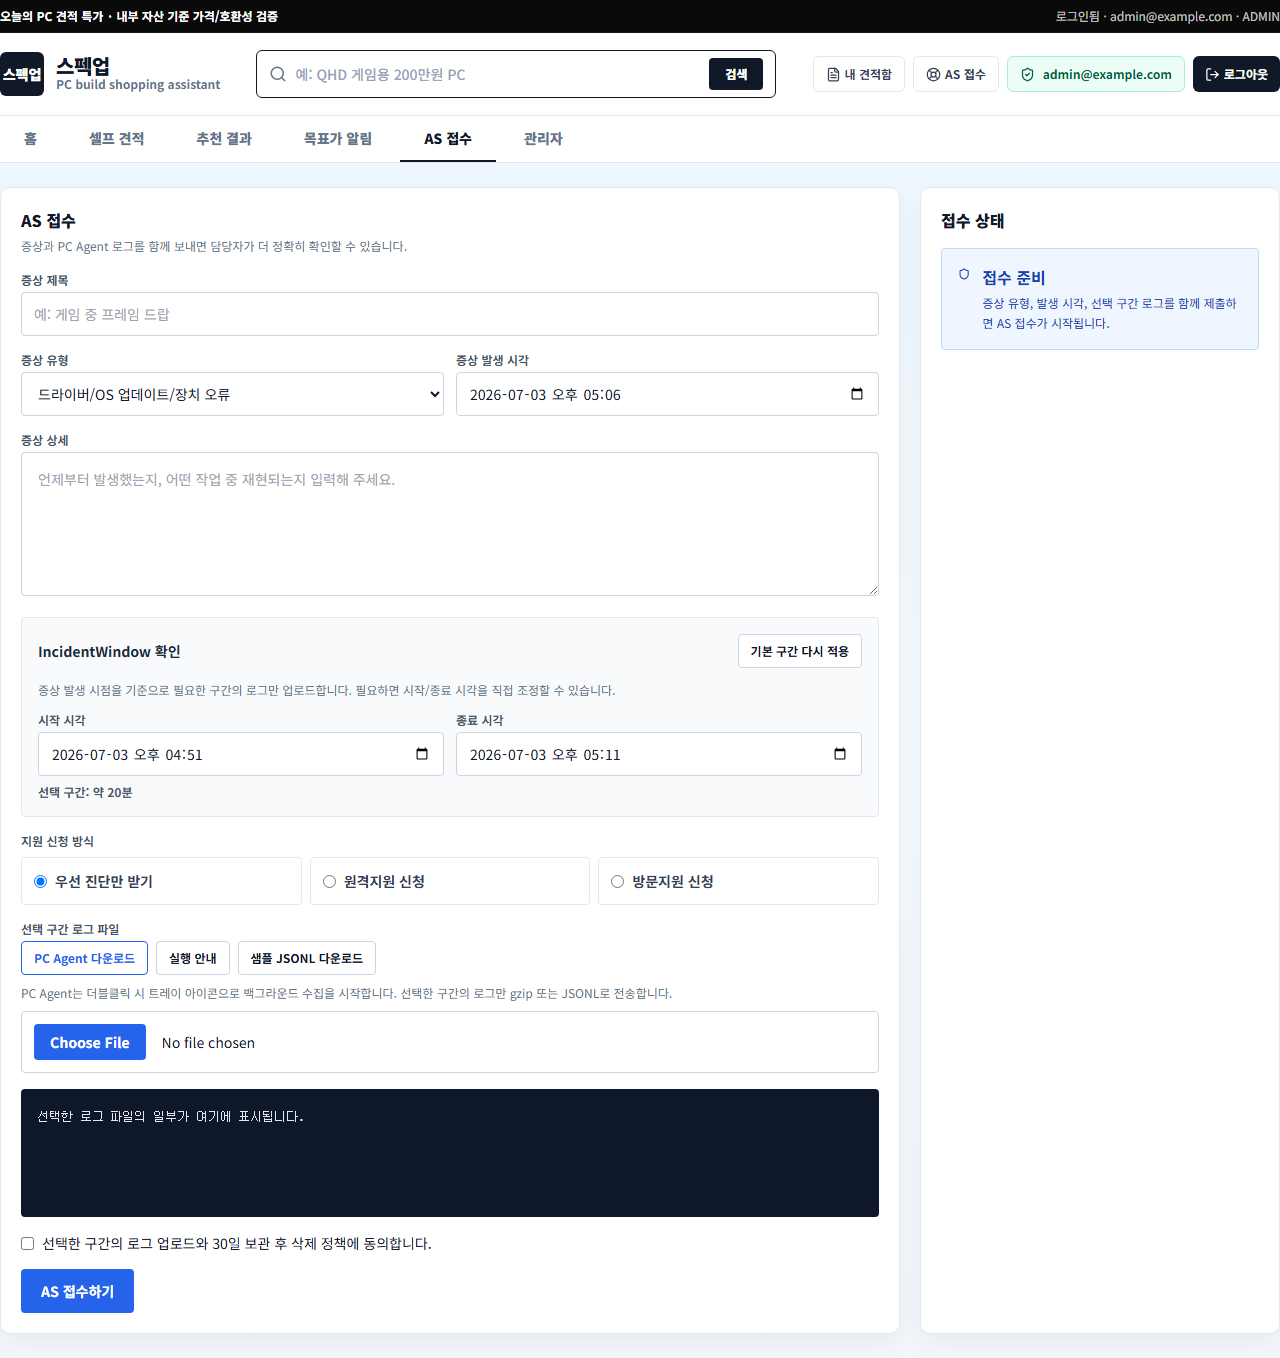
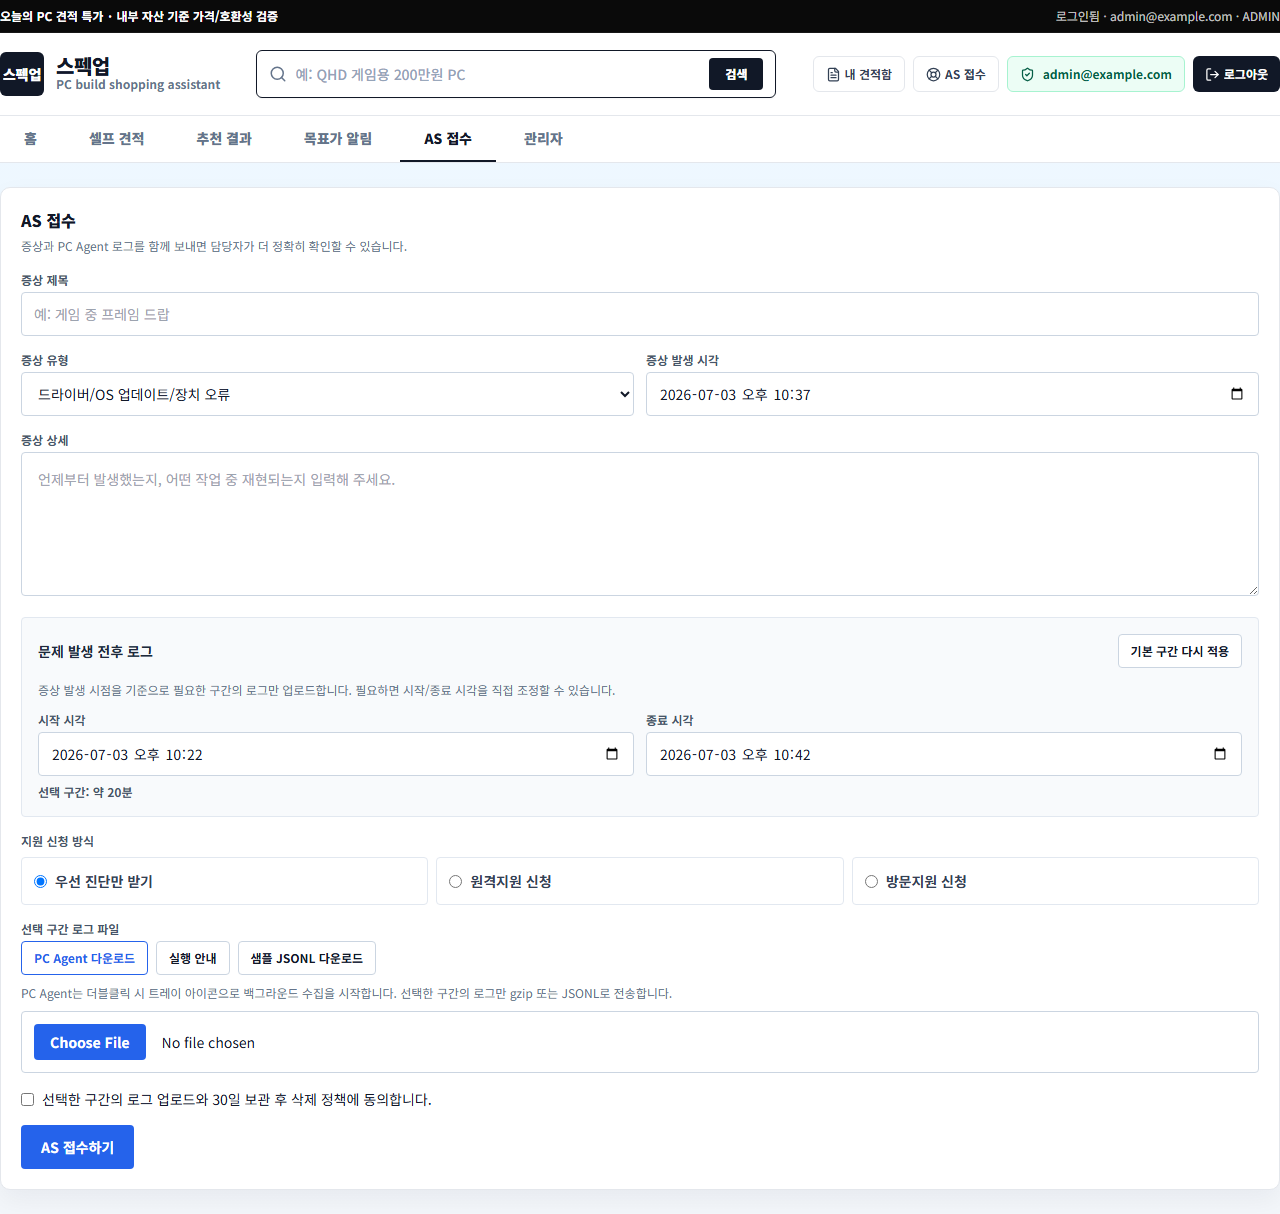
AS 접수 smoke 테스트 문구 갱신

diff --git a/apps/web/tests/agent-as-visual.spec.ts b/apps/web/tests/agent-as-visual.spec.ts
@@ -136,7 +136,7 @@ test('captures Agent AS demo UI evidence and verifies admin decision reflection'
 
   await page.goto('/support/new');
   await expect(page.getByRole('main')).toContainText('AS 접수');
-  await expect(page.getByRole('main')).toContainText('IncidentWindow 확인');
+  await expect(page.getByRole('main')).toContainText('문제 발생 전후 로그');
   await expect(page.getByRole('main')).toContainText('선택 구간 로그 파일');
   await page.screenshot({ path: `${screenshotDir}/01-support-new.png`, fullPage: true });
 